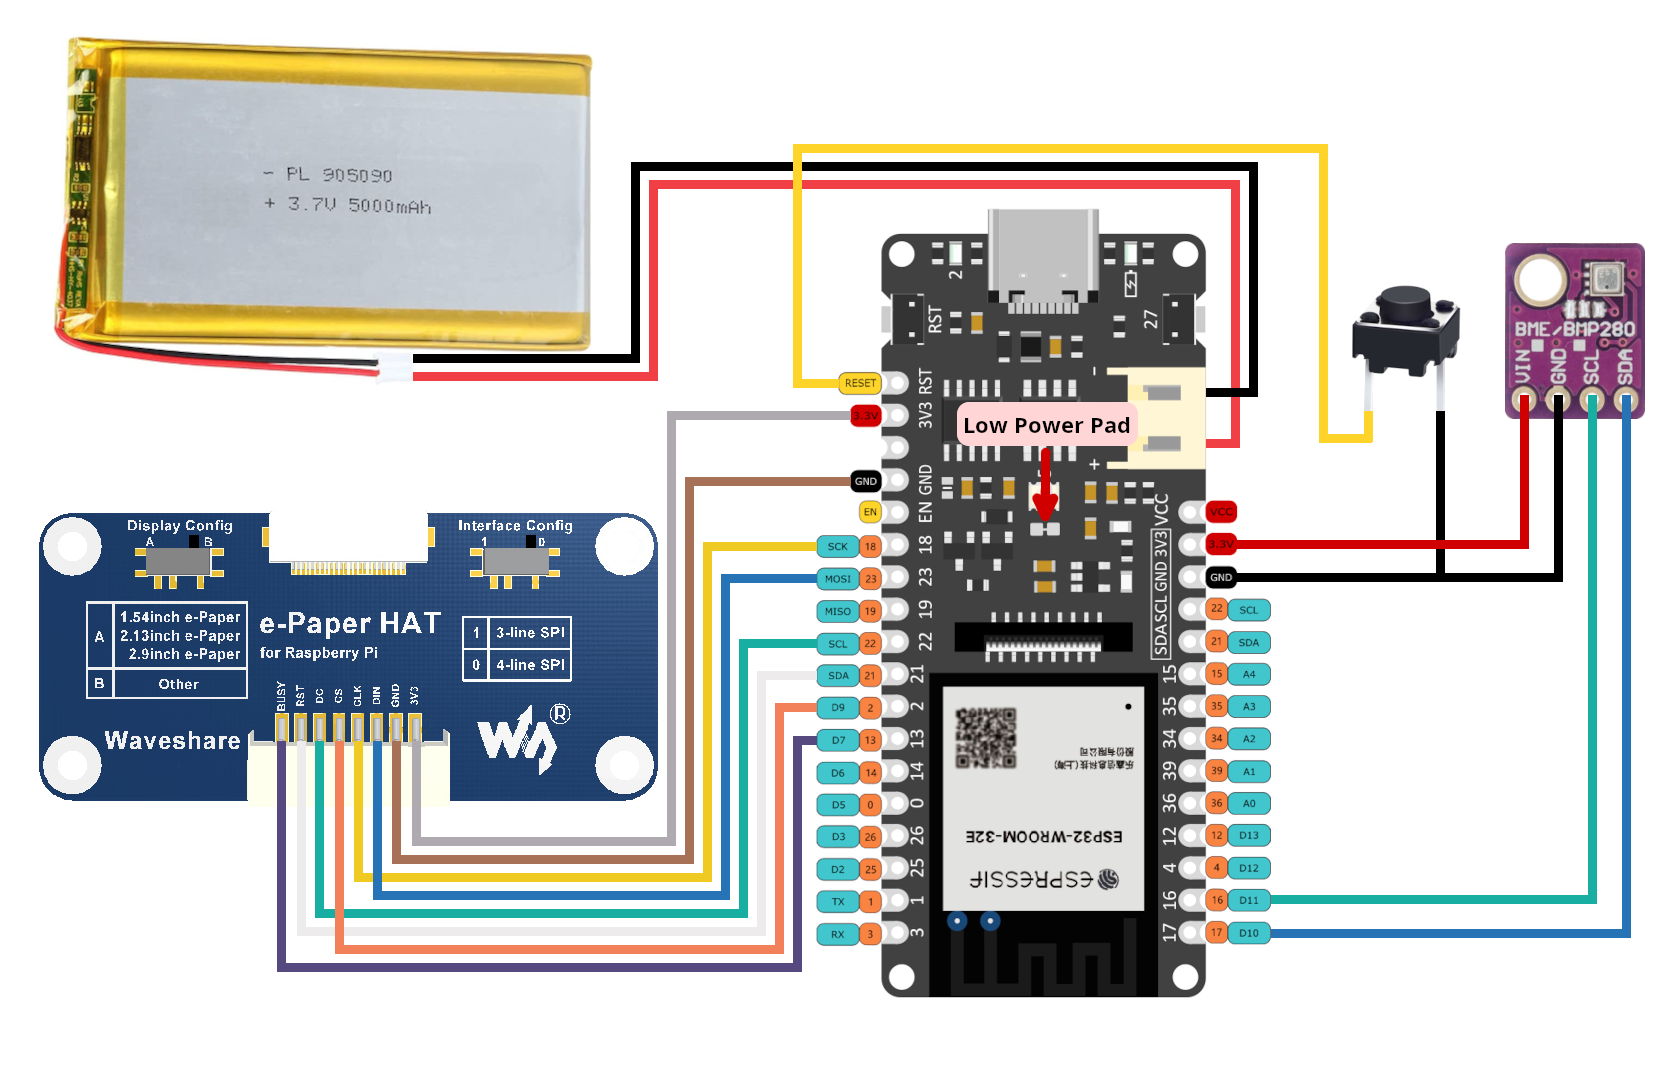
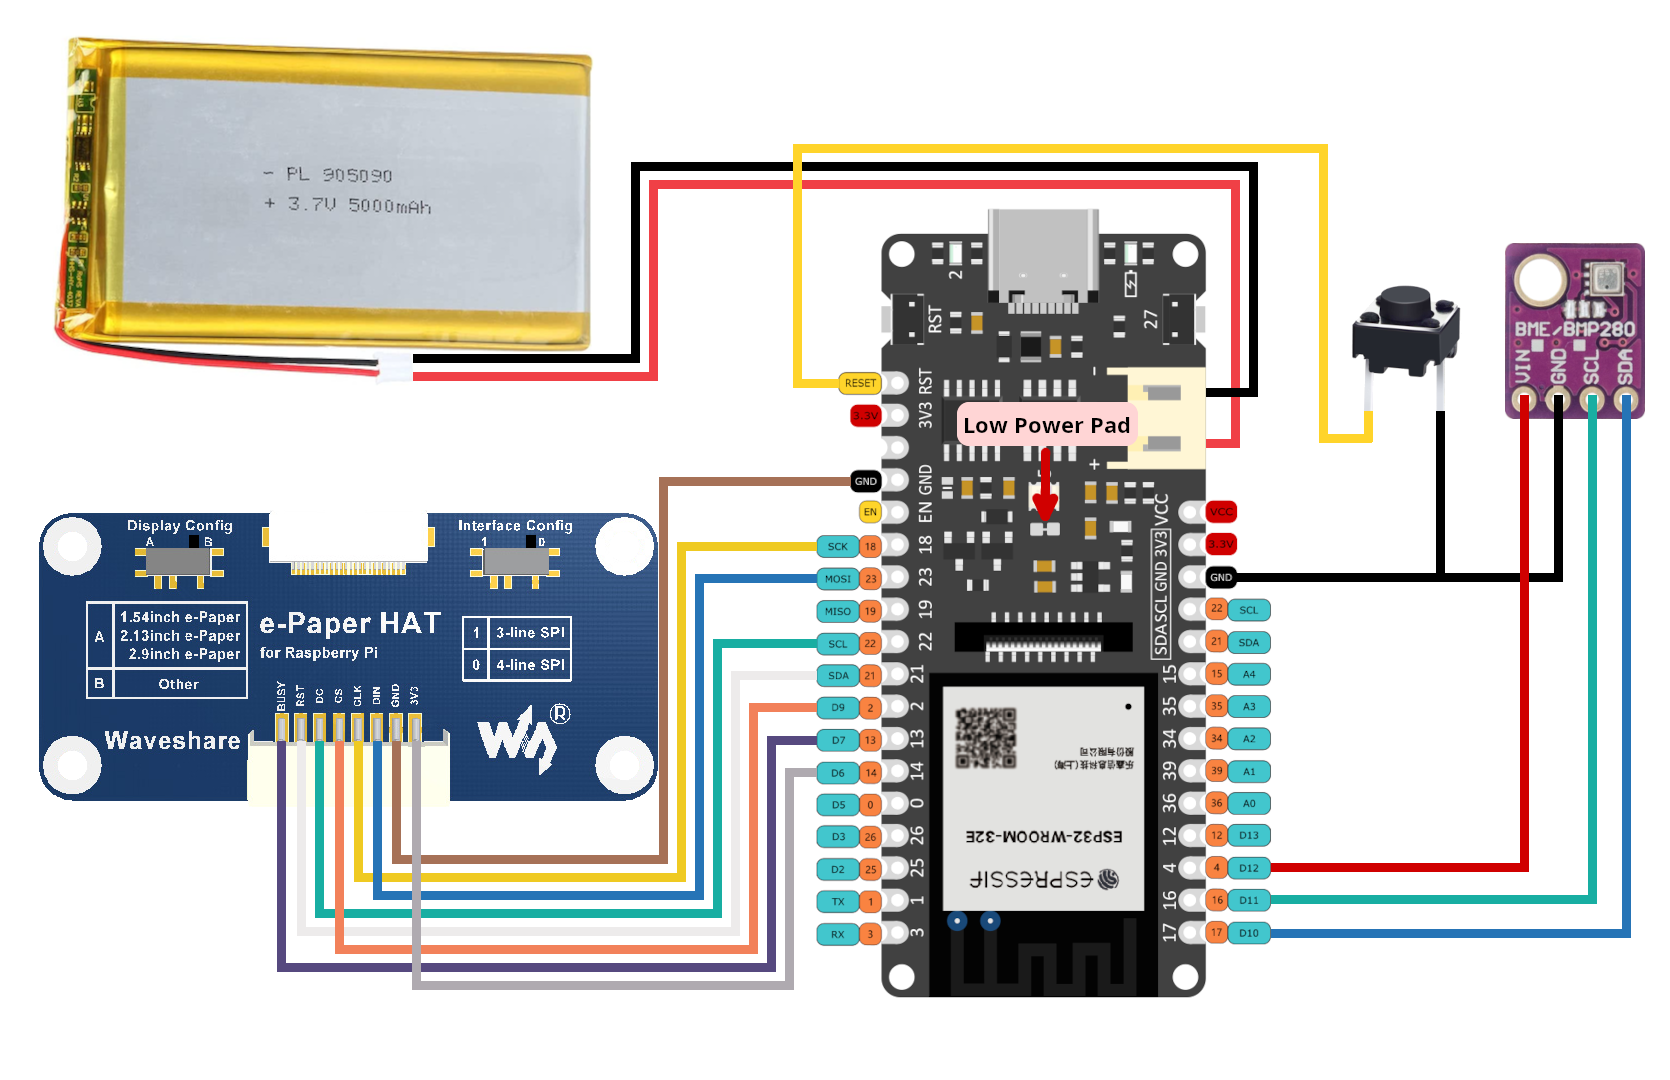
low power improvements, display and bme now powered off GPIO pins

Changed region(s): [[0.2491, 0.3972, 0.4982, 0.9167], [0.7473, 0.4889, 0.9341, 0.825], [0.4048, 0.3667, 0.4982, 0.3972]]

diff --git a/platformio/src/main.cpp b/platformio/src/main.cpp
@@ -18,6 +18,7 @@
 #include <Arduino.h>
 #include <Adafruit_BME280.h>
 #include <Adafruit_Sensor.h>
+#include <driver/adc.h>
 #include <Preferences.h>
 #include <time.h>
 #include <WiFi.h>
@@ -127,6 +128,8 @@ void setup()
   printHeapUsage();
 #endif
 
+  disableBuiltinLED();
+
   // Open namespace for read/write to non-volatile storage
   prefs.begin(NVS_NAMESPACE, false);
 
@@ -134,8 +137,10 @@ void setup()
   // GET BATTERY VOLTAGE
   // DFRobot FireBeetle Esp32-E V1.0 has voltage divider (1M+1M), so readings
   // are multiplied by 2. Readings are divided by 1000 to convert mV to V.
-  double batteryVoltage =
-            static_cast<double>(analogRead(PIN_BAT_ADC)) / 1000.0 * (3.5 / 2.0);
+  adc_power_acquire();
+  uint16_t batADC = analogRead(PIN_BAT_ADC);
+  adc_power_release();
+  double batteryVoltage = static_cast<double>(batADC) / 1000.0 * (3.5 / 2.0);
             // use / 1000.0 * (3.3 / 2.0) multiplier above for firebeetle esp32
             // use / 1000.0 * (3.5 / 2.0) for firebeetle esp32-E
   Serial.println("Battery voltage: " + String(batteryVoltage, 2));
@@ -158,7 +163,7 @@ void setup()
       {
         drawError(battery_alert_0deg_196x196, "Low Battery", "");
       } while (display.nextPage());
-      display.powerOff();
+      powerOffDisplay();
     }
 
     if (batteryVoltage <= CRIT_LOW_BATTERY_VOLTAGE)
@@ -225,7 +230,7 @@ void setup()
         drawError(wifi_x_196x196, "WiFi Connection", "Failed");
       } while (display.nextPage());
     }
-    display.powerOff();
+    powerOffDisplay();
     beginDeepSleep(startTime, &timeInfo);
   }
 
@@ -241,7 +246,7 @@ void setup()
     {
       drawError(wi_time_4_196x196, "Time Synchronization", "Failed");
     } while (display.nextPage());
-    display.powerOff();
+    powerOffDisplay();
     beginDeepSleep(startTime, &timeInfo);
   }
 
@@ -266,7 +271,7 @@ void setup()
     {
       drawError(wi_cloud_down_196x196, statusStr, tmpStr);
     } while (display.nextPage());
-    display.powerOff();
+    powerOffDisplay();
     beginDeepSleep(startTime, &timeInfo);
   }
   rxStatus = getOWMairpollution(client, owm_air_pollution);
@@ -280,12 +285,14 @@ void setup()
     {
       drawError(wi_cloud_down_196x196, statusStr, tmpStr);
     } while (display.nextPage());
-    display.powerOff();
+    powerOffDisplay();
     beginDeepSleep(startTime, &timeInfo);
   }
   killWiFi(); // WiFi no longer needed
 
   // GET INDOOR TEMPERATURE AND HUMIDITY, start BME280...
+  pinMode(PIN_BME_PWR, OUTPUT);
+  digitalWrite(PIN_BME_PWR, HIGH);
   float inTemp     = NAN;
   float inHumidity = NAN;
   Serial.print("Reading from BME280... ");
@@ -317,6 +324,7 @@ void setup()
     statusStr = "BME not found"; // check wiring
     Serial.println(statusStr);
   }
+  digitalWrite(PIN_BME_PWR, LOW);
 
   String refreshTimeStr;
   getRefreshTimeStr(refreshTimeStr, timeConfigured, &timeInfo);
@@ -337,7 +345,7 @@ void setup()
 #endif
     drawStatusBar(statusStr, refreshTimeStr, wifiRSSI, batteryVoltage);
   } while (display.nextPage());
-  display.powerOff();
+  powerOffDisplay();
 
   // DEEP-SLEEP
   beginDeepSleep(startTime, &timeInfo);

diff --git a/platformio/src/renderer.cpp b/platformio/src/renderer.cpp
@@ -224,6 +224,8 @@ void drawMultiLnString(int16_t x, int16_t y, const String &text,
  */
 void initDisplay()
 {
+  pinMode(PIN_EPD_PWR, OUTPUT);
+  digitalWrite(PIN_EPD_PWR, HIGH);
   display.init(115200, true, 2, false);
   SPI.begin(PIN_EPD_SCK,
             PIN_EPD_MISO,
@@ -237,6 +239,16 @@ void initDisplay()
   // display.fillScreen(GxEPD_WHITE);
   display.setFullWindow();
   display.firstPage(); // use paged drawing mode, sets fillScreen(GxEPD_WHITE)
+  return;
+} // end initDisplay
+
+/* Power-off e-paper display
+ */
+void powerOffDisplay()
+{
+  display.powerOff();
+  digitalWrite(PIN_EPD_PWR, LOW);
+  return;
 } // end initDisplay
 
 /* This function is responsible for drawing the current conditions and
@@ -1085,8 +1097,10 @@ void drawStatusBar(const String &statusStr, const String &refreshTimeStr,
   if (batVoltage < BATTERY_WARN_VOLTAGE) {
     dataColor = ACCENT_COLOR;
   }
-  dataStr = String(batPercent) + "% ("
-            + String( round(100.0 * batVoltage) / 100.0, 2 ) + "v)";
+  dataStr = String(batPercent) + "%";
+#if STATUS_BAR_EXTRAS_BAT_VOLTAGE
+  dataStr += " (" + String( round(100.0 * batVoltage) / 100.0, 2 ) + "v)";
+#endif
   drawString(pos, DISP_HEIGHT - 1 - 2, dataStr, RIGHT, dataColor);
   pos -= getStringWidth(dataStr) + 25;
   display.drawInvertedBitmap(pos, DISP_HEIGHT - 1 - 17,
@@ -1097,10 +1111,12 @@ void drawStatusBar(const String &statusStr, const String &refreshTimeStr,
   // WiFi
   dataStr = String(getWiFidesc(rssi));
   dataColor = rssi >= -70 ? GxEPD_BLACK : ACCENT_COLOR;
+#if STATUS_BAR_EXTRAS_WIFI_RSSI
   if (rssi != 0)
   {
     dataStr += " (" + String(rssi) + "dBm)";
   }
+#endif
   drawString(pos, DISP_HEIGHT - 1 - 2, dataStr, RIGHT, dataColor);
   pos -= getStringWidth(dataStr) + 19;
   display.drawInvertedBitmap(pos, DISP_HEIGHT - 1 - 13, getWiFiBitmap16(rssi),

diff --git a/platformio/include/config.h b/platformio/include/config.h
@@ -199,6 +199,12 @@
 //   Disable alerts by changing the DISPLAY_ALERTS macro to 0.
 #define DISPLAY_ALERTS 1
 
+// STATUS BAR EXTRAS
+//   Extra information that can be displayed on the status bar. Set to 1 to
+//   enable.
+#define STATUS_BAR_EXTRAS_BAT_VOLTAGE 0
+#define STATUS_BAR_EXTRAS_WIFI_RSSI   0
+
 // BATTERY MONITORING
 //   You may choose to power your whether display with or without a battery.
 //   Low power behavior can be controlled in config.cpp.
@@ -223,8 +229,10 @@ extern const uint8_t PIN_EPD_DC;
 extern const uint8_t PIN_EPD_SCK;
 extern const uint8_t PIN_EPD_MISO;
 extern const uint8_t PIN_EPD_MOSI;
+extern const uint8_t PIN_EPD_PWR;
 extern const uint8_t PIN_BME_SDA;
 extern const uint8_t PIN_BME_SCL;
+extern const uint8_t PIN_BME_PWR;
 extern const uint8_t BME_ADDRESS;
 extern const char *WIFI_SSID;
 extern const char *WIFI_PASSWORD;

diff --git a/platformio/src/config.cpp b/platformio/src/config.cpp
@@ -29,10 +29,12 @@ const uint8_t PIN_EPD_DC   = 22;
 const uint8_t PIN_EPD_SCK  = 18;
 const uint8_t PIN_EPD_MISO = 19; // 19 Master-In Slave-Out not used, as no data from display
 const uint8_t PIN_EPD_MOSI = 23;
+const uint8_t PIN_EPD_PWR  = 14; // Irrelevant if directly connected to 3.3V
 // I2C Pins used for BME280
-const uint8_t PIN_BME_SDA = 17;   // 27 for micro-usb firebeetle
-const uint8_t PIN_BME_SCL = 16;   // 26 for micro-usb firebeetle
-const uint8_t BME_ADDRESS = 0x76; // if sensor does not work, try 0x77
+const uint8_t PIN_BME_SDA = 17;
+const uint8_t PIN_BME_SCL = 16;
+const uint8_t PIN_BME_PWR =  4;   // Irrelevant if directly connected to 3.3V
+const uint8_t BME_ADDRESS = 0x76; // If sensor does not work, try 0x77
 
 // WIFI
 const char *WIFI_SSID     = "ssid";

diff --git a/platformio/src/display_utils.cpp b/platformio/src/display_utils.cpp
@@ -1667,3 +1667,15 @@ const char *getWifiStatusPhrase(wl_status_t status)
   default:  return "";
   }
 } // end getWifiStatusPhrase
+
+/* This function sets the builtin LED to LOW and disables it even during deep
+ * sleep.
+ */
+void disableBuiltinLED()
+{
+  pinMode(LED_BUILTIN, OUTPUT);
+  digitalWrite(LED_BUILTIN, LOW);
+  gpio_hold_en(static_cast<gpio_num_t>(LED_BUILTIN));
+  gpio_deep_sleep_hold_en();
+  return;
+} // end disableBuiltinLED

diff --git a/platformio/include/renderer.h b/platformio/include/renderer.h
@@ -69,6 +69,7 @@ void drawMultiLnString(int16_t x, int16_t y, const String &text,
                        uint16_t max_lines, int16_t line_spacing,
                        uint16_t color=GxEPD_BLACK);
 void initDisplay();
+void powerOffDisplay();
 void drawCurrentConditions(const owm_current_t &current,
                            const owm_daily_t &today,
                            const owm_resp_air_pollution_t &owm_air_pollution,

diff --git a/platformio/include/display_utils.h b/platformio/include/display_utils.h
@@ -73,6 +73,7 @@ const uint8_t *getWindBitmap24(int windDeg);
 const char *getHttpResponsePhrase(int code);
 const char *getWifiStatusPhrase(wl_status_t status);
 void printHeapUsage();
+void disableBuiltinLED();
 
 #endif
 
